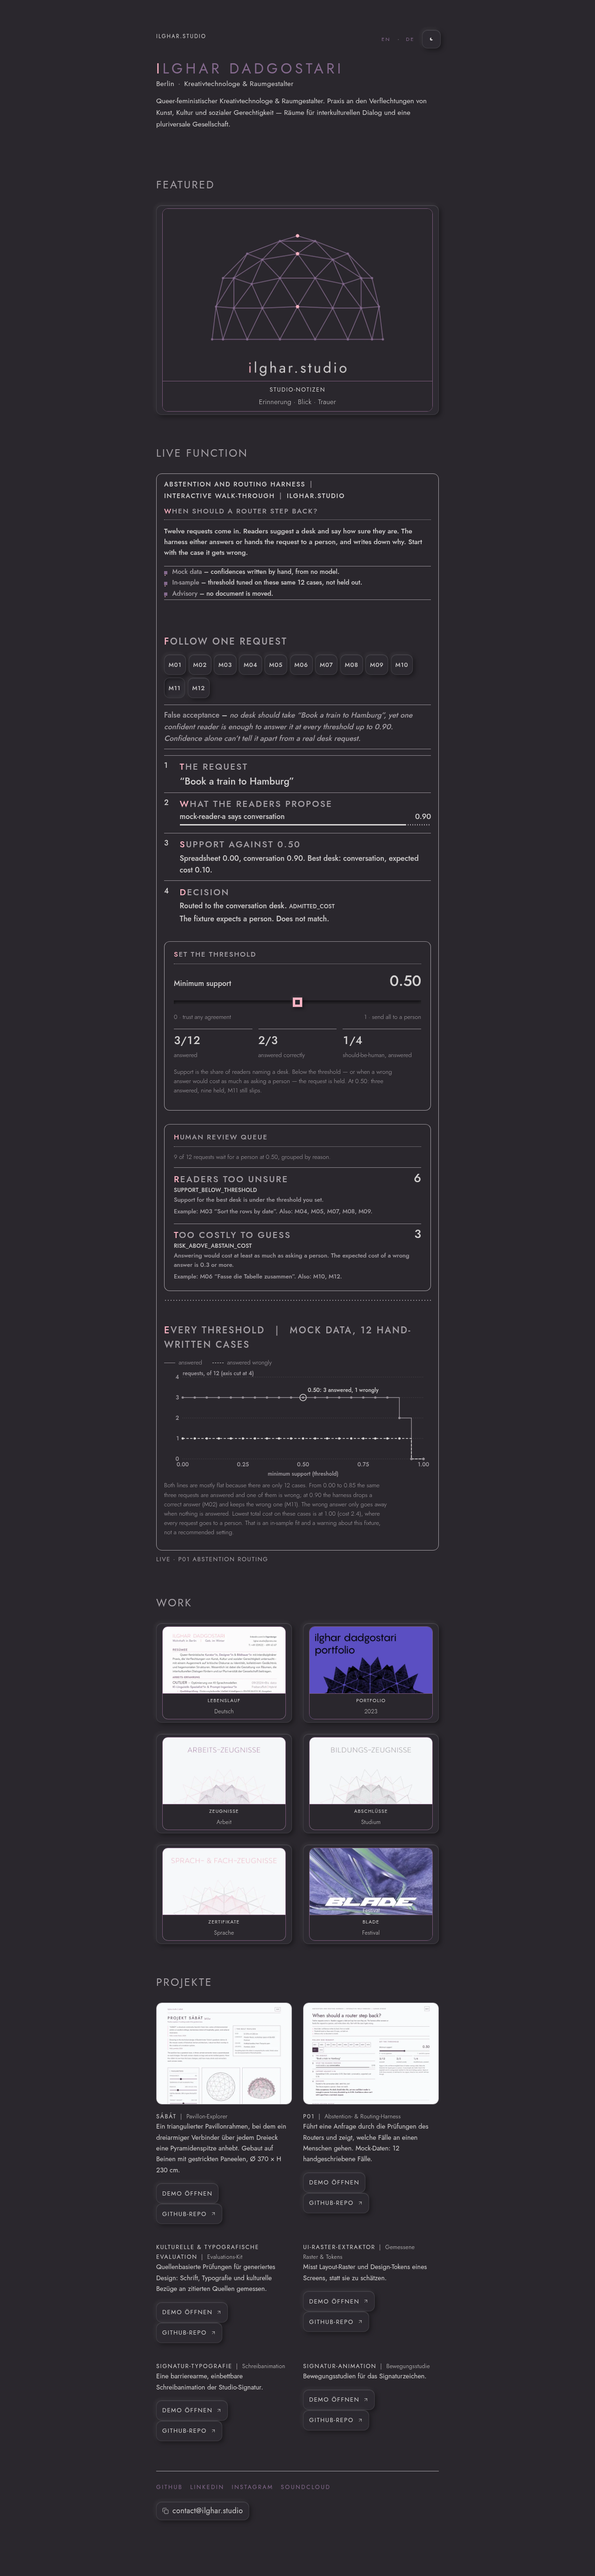
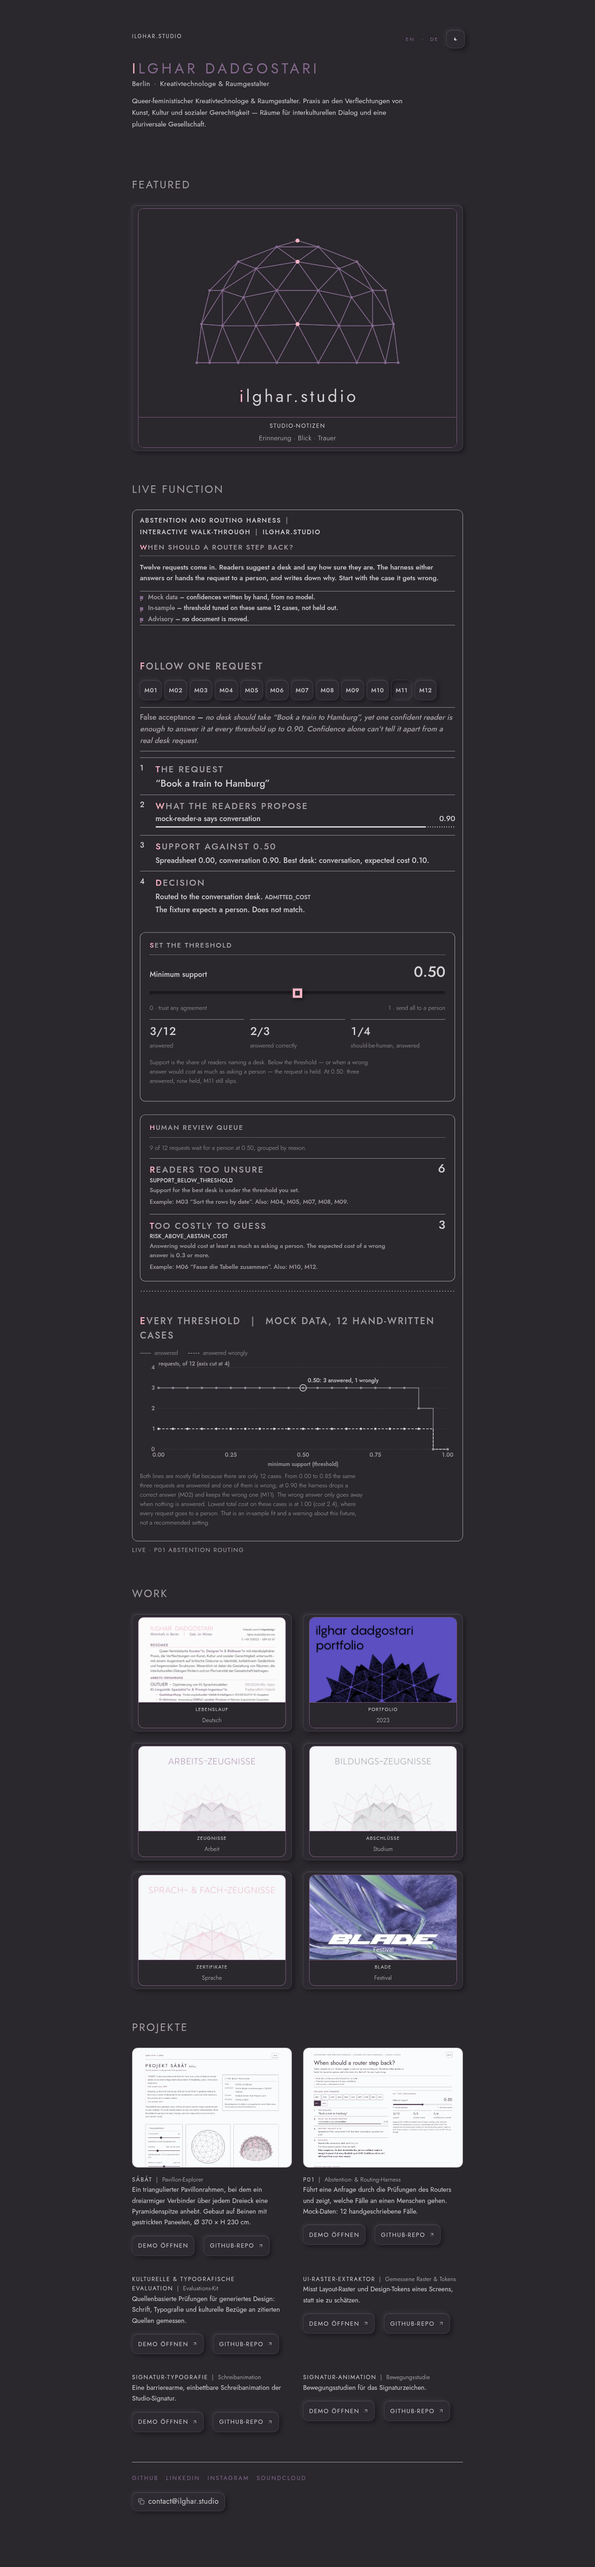
Apply live SÁBÁT column: 100%/720/760 with 16/24px side padding
Replace the 448/576/672 first-page column with official tokens
(--col-s:100%, --col-m:720px from 768px, --col-l:760px from 1024px)
and mid-breakpoint 24px padding. Update the v2 check and reshoot
restore_{en,de}_{1280,390}_{light,dark}.png from the build.

diff --git a/public/demos/sabat/demo.css b/public/demos/sabat/demo.css
@@ -143,7 +143,7 @@ img,svg,canvas,iframe,video{max-width:100%!important;height:auto}
 .hero-art{display:block;width:100%;max-width:100%;aspect-ratio:8/3;margin:0;padding:0;border:0!important;outline:0;overflow:hidden;background:transparent;border-radius:0;box-shadow:none;position:relative}
 .hero-art img{position:absolute;inset:0;display:block;width:100%!important;height:100%!important;max-height:none;object-fit:fill;border:0;border-radius:0}
 figure.span12 > .hero-art, figure.hero > .hero-art{width:100%}
-.hero{max-width:var(--col-l,672px);margin:0 auto 24px}
+.hero{max-width:var(--col-l,760px);margin:0 auto 24px}
 .hero-art img{width:100%;height:100%;object-fit:fill;display:block;border-radius:0}
 .hero figcaption,.cap-hero{margin-top:8px;font-size:13px;letter-spacing:.12em;text-transform:uppercase;color:var(--label,#775a76)}
 .note-hero{margin:6px 0 24px}

diff --git a/public/design/pages-shell.css b/public/design/pages-shell.css
@@ -4,7 +4,7 @@ html{background:var(--canvas);color:var(--fg)}
 body{margin:0;min-height:100dvh;background:var(--canvas);color:var(--fg);font-family:var(--font);font-weight:400;line-height:1.65;-webkit-font-smoothing:antialiased}
 img,svg,video,canvas,iframe{max-width:100%;height:auto;display:block}
 .ilg-wrap,.ilg-main{max-width:var(--col-s);margin-inline:auto;padding:24px 16px 40px;width:100%}
-@media (min-width:768px){.ilg-wrap,.ilg-main{max-width:var(--col-m);padding:40px 32px 56px}}
+@media (min-width:768px){.ilg-wrap,.ilg-main{max-width:var(--col-m);padding:40px 24px 56px}}
 @media (min-width:1024px){.ilg-wrap,.ilg-main{max-width:var(--col-l)}}
 .ilg-hero{margin:0 0 1.5rem}
 .ilg-kicker{font-family:var(--font);font-weight:400;font-size:13px;letter-spacing:.12em;text-transform:uppercase;color:var(--label);margin:0 0 .5rem}

diff --git a/public/design/tokens.css b/public/design/tokens.css
@@ -16,7 +16,7 @@
   /* type */
   --font:Jost,sans-serif; --font-fa:Vazirmatn,Jost,sans-serif;
   /* column */
-  --col-s:448px; --col-m:576px; --col-l:672px;
+  --col-s:100%; --col-m:720px; --col-l:760px;
   color-scheme:light dark;
 }
 @media (prefers-color-scheme:dark){:root:not([data-theme=light]):not(.light){
@@ -34,7 +34,7 @@
 body{margin:0;background:var(--canvas);color:var(--fg);font:400 16px/1.65 var(--font)}
 b,strong{font-weight:inherit} p{max-width:64ch;margin:0 0 12px}
 main{max-width:var(--col-s);margin:0 auto;padding:24px 16px 40px}
-@media (min-width:768px){main{max-width:var(--col-m);padding:40px 32px 56px}}
+@media (min-width:768px){main{max-width:var(--col-m);padding:40px 24px 56px}}
 @media (min-width:1024px){main{max-width:var(--col-l)}}
 img,svg,video,iframe,canvas,figure{max-width:100%;height:auto}
 

diff --git a/src/tokens-first-page.css b/src/tokens-first-page.css
@@ -16,7 +16,7 @@
   /* type */
   --font:Jost,sans-serif; --font-fa:Vazirmatn,Jost,sans-serif;
   /* column */
-  --col-s:448px; --col-m:576px; --col-l:672px;
+  --col-s:100%; --col-m:720px; --col-l:760px;
   color-scheme:light dark;
 }
 @media (prefers-color-scheme:dark){:root:not([data-theme=light]):not(.light){
@@ -34,7 +34,7 @@
 body{margin:0;background:var(--canvas);color:var(--fg);font:400 16px/1.65 var(--font)}
 b,strong{font-weight:inherit} p{max-width:64ch;margin:0 0 12px}
 main{max-width:var(--col-s);margin:0 auto;padding:24px 16px 40px}
-@media (min-width:768px){main{max-width:var(--col-m);padding:40px 32px 56px}}
+@media (min-width:768px){main{max-width:var(--col-m);padding:40px 24px 56px}}
 @media (min-width:1024px){main{max-width:var(--col-l)}}
 img,svg,video,iframe,canvas,figure{max-width:100%;height:auto}
 

diff --git a/src/tokens.css b/src/tokens.css
@@ -16,7 +16,7 @@
   /* type */
   --font:Jost,sans-serif; --font-fa:Vazirmatn,Jost,sans-serif;
   /* column */
-  --col-s:448px; --col-m:576px; --col-l:672px;
+  --col-s:100%; --col-m:720px; --col-l:760px;
   color-scheme:light dark;
 }
 @media (prefers-color-scheme:dark){:root:not([data-theme=light]):not(.light){
@@ -34,7 +34,7 @@
 body{margin:0;background:var(--canvas);color:var(--fg);font:400 16px/1.65 var(--font)}
 b,strong{font-weight:inherit} p{max-width:64ch;margin:0 0 12px}
 main{max-width:var(--col-s);margin:0 auto;padding:24px 16px 40px}
-@media (min-width:768px){main{max-width:var(--col-m);padding:40px 32px 56px}}
+@media (min-width:768px){main{max-width:var(--col-m);padding:40px 24px 56px}}
 @media (min-width:1024px){main{max-width:var(--col-l)}}
 img,svg,video,iframe,canvas,figure{max-width:100%;height:auto}
 

diff --git a/public/demos/p01/demo.css b/public/demos/p01/demo.css
@@ -132,7 +132,7 @@ html.embed h1{
 html[data-theme=dark].embed h1,html.embed[data-theme=dark] h1{color:var(--sec,#a6a1a7)}
 html.embed h1 .dc{color:var(--dc,#fcb4c4)}
 html.embed .hdr{margin:0 0 12px}
-.hero{margin:0 auto 24px;max-width:var(--col-l,672px)}
+.hero{margin:0 auto 24px;max-width:var(--col-l,760px)}
 .hero-art img, .frame img{width:100%;height:100%;object-fit:fill;display:block;border-radius:0}
 .hero figcaption,.cap-hero{margin-top:8px;font-size:13px;letter-spacing:.12em;text-transform:uppercase;color:var(--label,#775a76)}
 #theme{margin-left:auto}

diff --git a/scripts/check_first_page.py b/scripts/check_first_page.py
@@ -1,6 +1,6 @@
 #!/usr/bin/env python3
 """First-page CI (layout v2 / SÁBÁT standard): CSS frame radius 12px,
-column 448/576/672, type scale 24/31 · 23 · 13, fonts Jost/Vazirmatn only,
+column 100%/720/760, type scale 24/31 · 23 · 13, fonts Jost/Vazirmatn only,
 off-palette #hex in source, blue pixels (and blue hex in SVG).
 
 Frame radius is enforced in CSS on .panel / .frame / .card / .ilg-frame only.
@@ -475,7 +475,7 @@ def _px(val: str) -> str | None:
 
 
 def check_column(css: str) -> list[str]:
-    """Require v2 column widths 448 / 576 / 672px (or --col-s/m/l)."""
+    """Require v2 column widths 720 / 760px (full-width phones; or --col-s/m/l)."""
     issues: list[str] = []
     vs = _var_map(css)
     def resolved(val: str) -> str:
@@ -514,9 +514,9 @@ def check_column(css: str) -> list[str]:
         if r:
             widths.add(r)
 
-    need = {"448px", "576px", "672px"}
+    need = {"720px", "760px"}
     if not need.issubset(widths):
-        issues.append(f"column: need 448/576/672px, found {sorted(widths) or 'none'}")
+        issues.append(f"column: need 720/760px, found {sorted(widths) or 'none'}")
     return issues
 
 
@@ -914,7 +914,7 @@ def run_broken_samples() -> list[str]:
     hit("svg-art-rounded", svg2, False, check_radius)
 
     # Column / type positive and negative
-    v2col = ":root{--col-s:448px;--col-m:576px;--col-l:672px} main{max-width:var(--col-s)} @media (min-width:768px){main{max-width:var(--col-m)}} @media (min-width:1024px){main{max-width:var(--col-l)}}"
+    v2col = ":root{--col-s:100%;--col-m:720px;--col-l:760px} main{max-width:var(--col-s)} @media (min-width:768px){main{max-width:var(--col-m)}} @media (min-width:1024px){main{max-width:var(--col-l)}}"
     hit("column-v2", v2col, False, check_column)
     hit("column-v1", ":root{--col:960px} main{max-width:var(--col)}", True, check_column)
     v2type = "h1,.name{font-size:24px} @media (min-width:768px){h1,.name{font-size:31px}} h2{font-size:23px} .label,figcaption{font-size:13px}"
